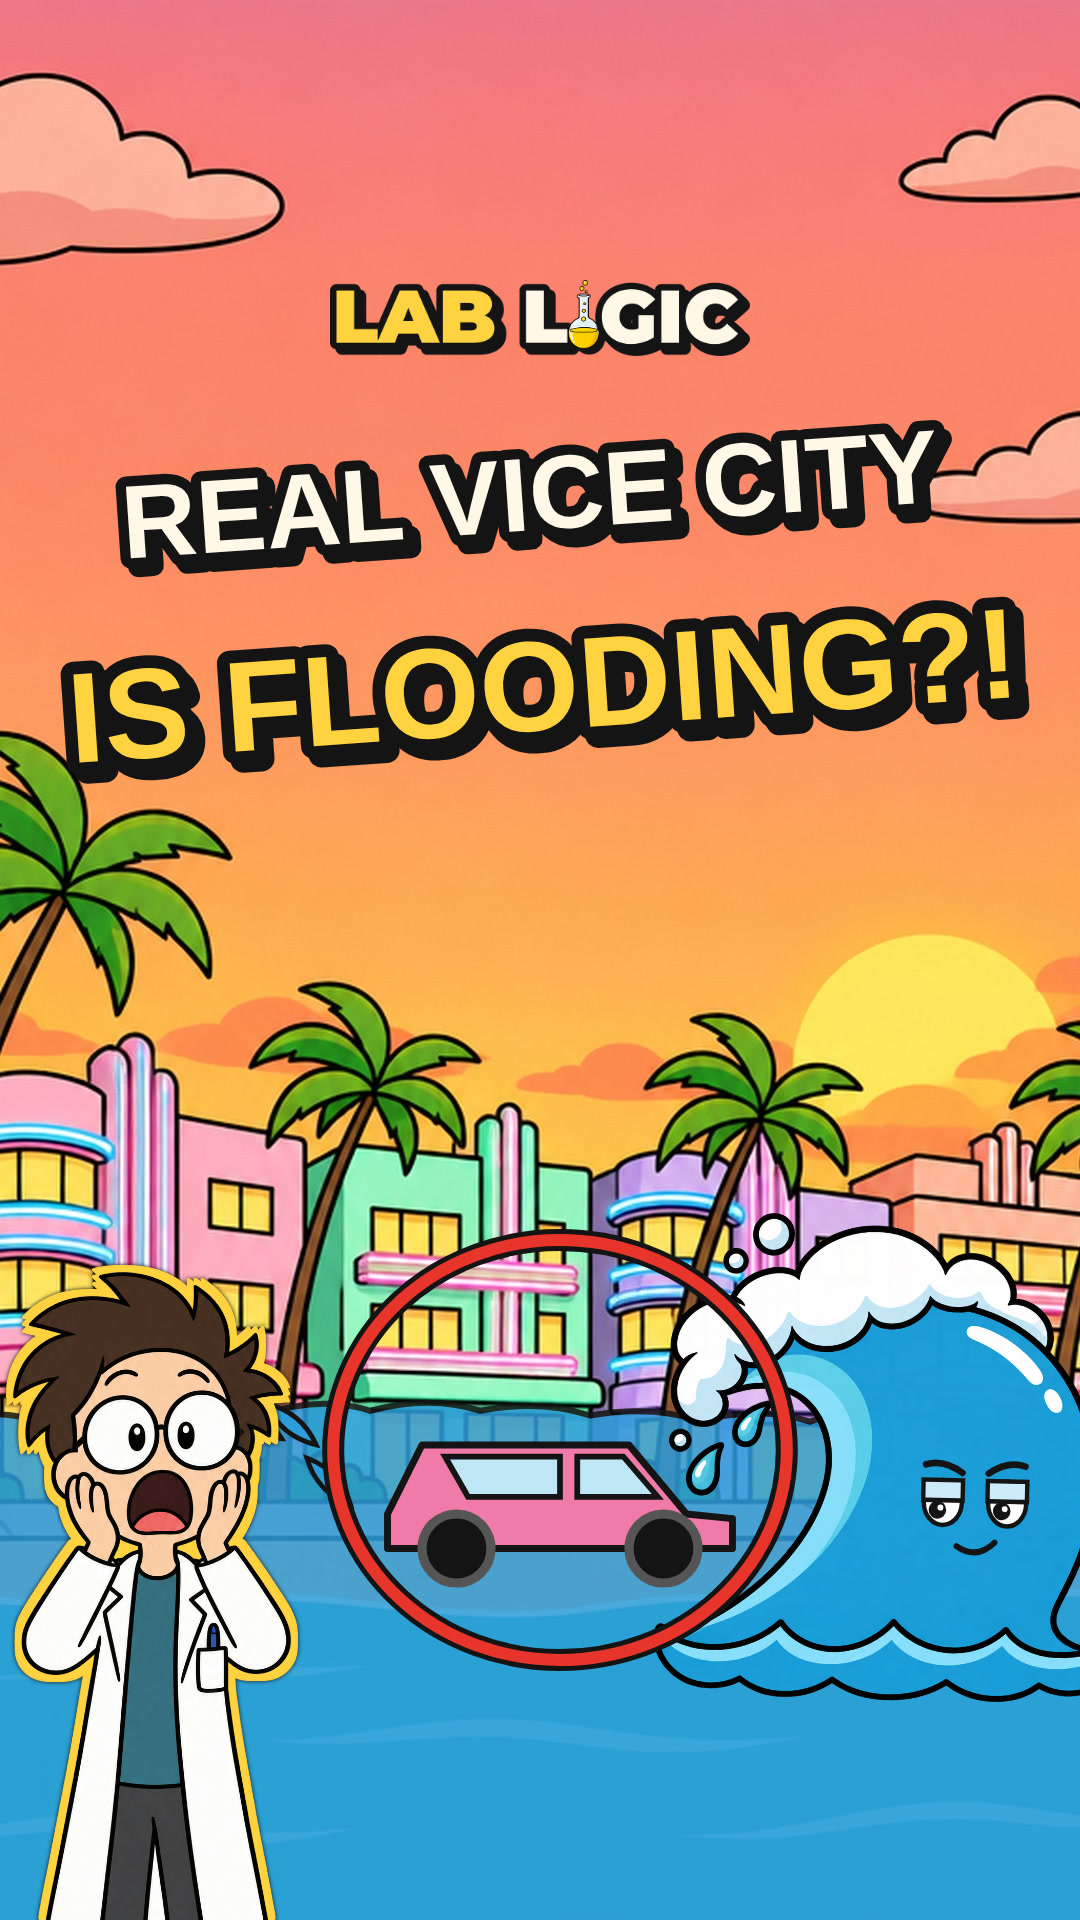
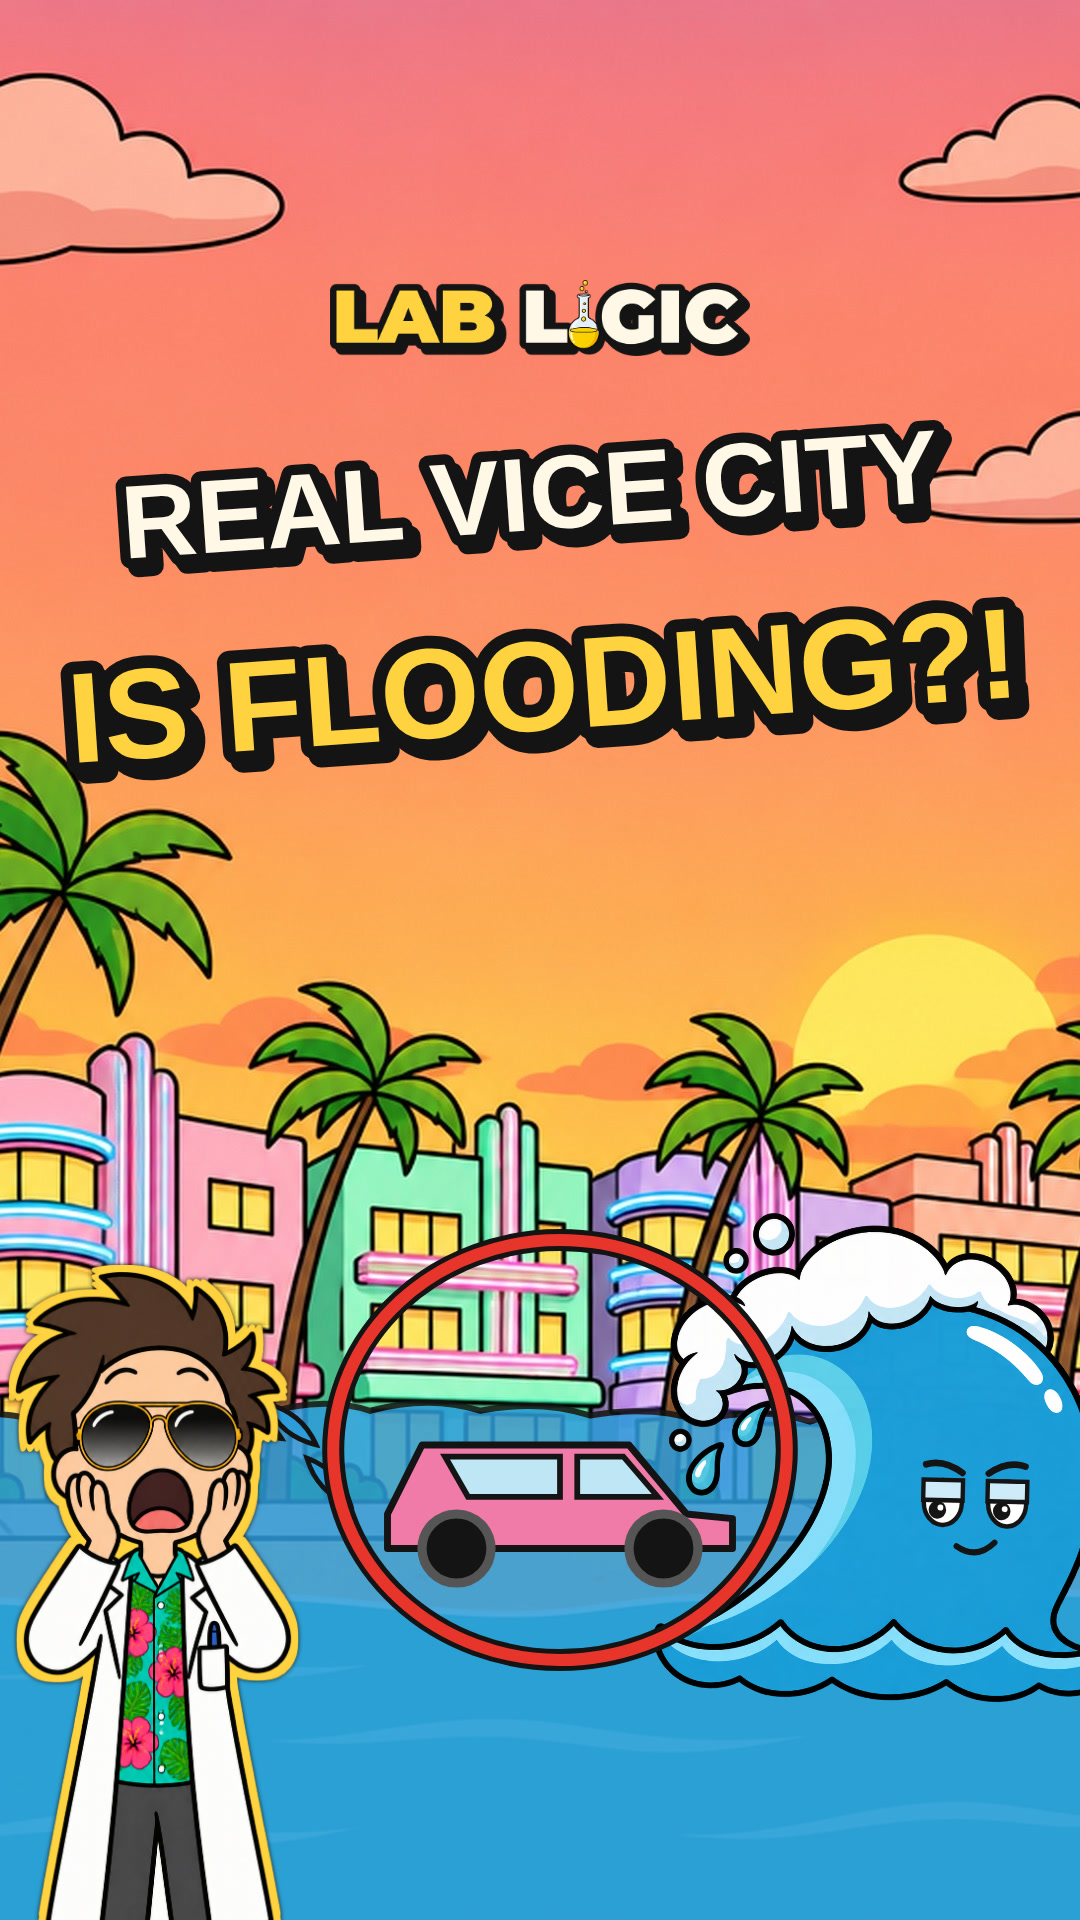
Vice City Short: scientist in Hawaiian shirt + aviators (new sprite skin system)
Claude-Session: https://claude.ai/code/session_015xk9XDSoC2XGKGSmzAa8PH

Changed region(s): [[0.0, 0.6562, 0.275, 1.0], [0.0306, 0.9375, 0.0611, 1.0], [0.0, 0.8438, 0.0306, 0.875]]

diff --git a/video/src/iceberg/Sci.tsx b/video/src/iceberg/Sci.tsx
@@ -1,6 +1,12 @@
 import React from 'react';
 import {Img, staticFile} from 'remotion';
 import {SPRITES} from './sprites';
+import {SPRITES_HAWAII} from './sprites_hawaii';
+
+// Outfit variants: same poses, different sprite folder + measurements (e.g. 'hawaii' = Hawaiian shirt + aviators).
+export type Skin = 'default' | 'hawaii';
+export const skinSprite = (pose: string, skin: Skin = 'default') =>
+  skin === 'hawaii' && SPRITES_HAWAII[pose] ? {sp: SPRITES_HAWAII[pose], src: `sci_hawaii/${pose}.png`} : {sp: SPRITES[pose], src: `iceberg/sci/${pose}.png`};
 import {clamp} from './anim';
 
 export type Pose = 'rope' | 'point' | 'think' | 'thumbs' | 'shocked' | 'nervous' | 'bucket' | 'facepalm' | 'throw' | 'present' | 'calc' | 'hot' | 'dizzy' | 'glass' | 'thirsty' | 'cash';
@@ -17,7 +23,8 @@ export const Sci: React.FC<{
   tremble?: number;
   hop?: number; // extra vertical offset (jumps)
   rot?: number;
-}> = ({t, x, y, headR = 44, poses, flip = false, tremble = 0, hop = 0, rot = 0}) => {
+  skin?: Skin;
+}> = ({t, x, y, headR = 44, poses, flip = false, tremble = 0, hop = 0, rot = 0, skin = 'default'}) => {
   let pose = poses[0][1];
   let swapT = -99;
   for (const [ts, p] of poses) {
@@ -51,7 +58,7 @@ export const Sci: React.FC<{
   }
   // breathing on holds
   sy *= 1 + 0.009 * Math.sin(t * 2 * Math.PI * 0.6);
-  const sp = SPRITES[pose];
+  const {sp, src} = skinSprite(pose, skin);
   const k = headR / sp.headR;
   const tx = tremble * (Math.sin(t * 71) * 1.5 + Math.sin(t * 43) * 1);
   return (
@@ -81,7 +88,7 @@ export const Sci: React.FC<{
         }}
       />
       <Img
-        src={staticFile(`iceberg/sci/${pose}.png`)}
+        src={staticFile(src)}
         style={{position: 'absolute', left: -sp.footX * k, top: -sp.footY * k, width: sp.w * k, height: sp.h * k}}
       />
     </div>

diff --git a/video/src/vicecity/Main.tsx b/video/src/vicecity/Main.tsx
@@ -239,7 +239,7 @@ export const ViceCover: React.FC = () => (
       <Wave x={900} y={1700} s={1.2} t={0.4} mood="smug" look={{x: -0.8, y: 0.2}} />
       <RedCircle x={560} y={1450} r={210} />
     </svg>
-    <BigSci pose="shocked" x={150} y={1420} headR={105} />
+    <BigSci skin="hawaii" pose="shocked" x={150} y={1420} headR={105} />
     <svg width={W} height={H} viewBox={`0 0 ${W} ${H}`} style={{position: 'absolute'}}>
       <g transform="rotate(-4 540 640)" data-skip="cover headline">
         <BigText x={540} y={530} text="REAL VICE CITY" size={104} />
@@ -308,7 +308,7 @@ const FixScene: React.FC<{t: number}> = ({t}) => {
         <Pill x={540} y={300} text="THE NETHERLANDS: WALLS" s={span(t, t0 + 0.1, buildT)} bg="#FF9F1C" size={50} />
         <Pill x={540} y={300} text="BUILD ONE AROUND MIAMI" s={pop(t, buildT)} bg={C.green} size={50} />
       </Layer>
-      {!nl && <Sci t={t} x={170} y={1330} headR={40} poses={[[0, 'present'], [goneT, 'thumbs'], [rightT, 'think']]} />}
+      {!nl && <Sci skin="hawaii" t={t} x={170} y={1330} headR={40} poses={[[0, 'present'], [goneT, 'thumbs'], [rightT, 'think']]} />}
     </Stage>
   );
 };
@@ -497,7 +497,7 @@ const FinalScene: React.FC<{t: number}> = ({t}) => {
         <Pill x={540} y={300} text="IN THE GAME: JUST DRIVE" s={span(t, t0 + 0.1, realT)} bg={C.paper} size={50} />
         <Pill x={540} y={300} text="IN REAL LIFE..." s={pop(t, realT)} bg={C.yellow} size={56} />
       </Layer>
-      {t > realT && <Sci t={t} x={170} y={1330} headR={42} poses={[[0, 'point']]} />}
+      {t > realT && <Sci skin="hawaii" t={t} x={170} y={1330} headR={42} poses={[[0, 'point']]} />}
     </Stage>
   );
 };

diff --git a/video/src/thumb/SunThumbs.tsx b/video/src/thumb/SunThumbs.tsx
@@ -1,6 +1,7 @@
 import React, {useEffect, useState} from 'react';
 import {AbsoluteFill, Img, continueRender, delayRender, staticFile} from 'remotion';
 import {BigText, C} from '../iceberg/art';
+import {Skin, skinSprite} from '../iceberg/Sci';
 import {SPRITES} from '../iceberg/sprites';
 import {Arrow, Rocket, SPACE, SPACE_L, Sun, TrashBag} from '../sun/space';
 
@@ -32,8 +33,8 @@ export const Rays: React.FC<{cx: number; cy: number}> = ({cx, cy}) => (
 );
 
 // The scientist, big and close (feet far below the frame), with a thick yellow rim like a sticker.
-export const BigSci: React.FC<{pose: string; x: number; y: number; headR: number; flip?: boolean}> = ({pose, x, y, headR, flip}) => {
-  const sp = SPRITES[pose];
+export const BigSci: React.FC<{pose: string; x: number; y: number; headR: number; flip?: boolean; skin?: Skin}> = ({pose, x, y, headR, flip, skin = 'default'}) => {
+  const {sp, src} = skinSprite(pose, skin);
   const k = headR / sp.headR;
   const w = sp.w * k;
   const h = sp.h * k;
@@ -44,7 +45,7 @@ export const BigSci: React.FC<{pose: string; x: number; y: number; headR: number
   const o = 7;
   const y1 = '#FFD23F';
   const filter = [`${o}px 0`, `-${o}px 0`, `0 ${o}px`, `0 -${o}px`].map((d) => `drop-shadow(${d} 0 ${y1})`).join(' ') + ' drop-shadow(0 0 2px #141414)';
-  return <Img src={staticFile(`iceberg/sci/${pose}.png`)} style={{...style, filter}} />;
+  return <Img src={staticFile(src)} style={{...style, filter}} />;
 };
 
 export const RedCircle: React.FC<{x: number; y: number; r: number}> = ({x, y, r}) => (

diff --git a/video/src/iceberg/sprites_hawaii.ts b/video/src/iceberg/sprites_hawaii.ts
@@ -1,0 +1,58 @@
+import type {Sprite} from './sprites';
+export const SPRITES_HAWAII: Record<string, Sprite> = {
+  "present": {
+    "handX": 860,
+    "handY": 629,
+    "w": 871,
+    "h": 1600,
+    "headX": 255,
+    "headY": 271,
+    "headR": 191.8914794921875,
+    "footX": 331.5,
+    "footY": 1588.0
+  },
+  "thumbs": {
+    "handX": 584,
+    "handY": 1104,
+    "w": 595,
+    "h": 1600,
+    "headX": 295,
+    "headY": 295,
+    "headR": 216.84768676757812,
+    "footX": 315.5,
+    "footY": 1588.0
+  },
+  "think": {
+    "handX": 559,
+    "handY": 1550,
+    "w": 570,
+    "h": 1600,
+    "headX": 266,
+    "headY": 288,
+    "headR": 207.40467834472656,
+    "footX": 308.2,
+    "footY": 1588.0
+  },
+  "point": {
+    "handX": 611,
+    "handY": 565,
+    "w": 622,
+    "h": 1600,
+    "headX": 279,
+    "headY": 285,
+    "headR": 214.49925231933594,
+    "footX": 293.7,
+    "footY": 1588.0
+  },
+  "shocked": {
+    "handX": 566,
+    "handY": 745,
+    "w": 577,
+    "h": 1600,
+    "headX": 281,
+    "headY": 310,
+    "headR": 212.145751953125,
+    "footX": 300.9,
+    "footY": 1588.0
+  }
+};

diff --git a/video/images/vicecity/scripts/prep_hawaii.py b/video/images/vicecity/scripts/prep_hawaii.py
@@ -1,0 +1,38 @@
+# Trim sprites, measure head disc + feet, write src/iceberg/sprites.ts.
+# usage: python3 prep.py pose=raw/file.png [pose=raw/file.png ...]
+import sys, json, numpy as np, cv2
+from PIL import Image
+ROOT = '/home/user/LAbLogic/video/'
+out = {}
+for arg in sys.argv[1:]:
+    name, path = arg.split('=')
+    im = Image.open(path).convert('RGBA')
+    a = np.array(im)[..., 3]
+    ys, xs = np.where(a > 20)
+    x0, x1, y0, y1 = max(xs.min() - 12, 0), min(xs.max() + 13, a.shape[1]), max(ys.min() - 12, 0), min(ys.max() + 13, a.shape[0])
+    im = im.crop((x0, y0, x1, y1))
+    if im.height > 1600:  # big enough for the 4K render, much lighter to load
+        im = im.resize((round(im.width * 1600 / im.height), 1600), Image.LANCZOS)
+    a = np.array(im)[..., 3]
+    h, w = a.shape
+    a8 = (a > 128).astype(np.uint8)
+    ff = a8.copy()
+    cv2.floodFill(ff, np.zeros((h + 2, w + 2), np.uint8), (0, 0), 2)
+    solid = np.where(ff == 2, 0, 1).astype(np.uint8)
+    # head = largest inscribed disc in the top 45 % (the coat is wide too)
+    top = solid.copy(); top[int(h * 0.45):] = 0
+    dt = cv2.distanceTransform(top, cv2.DIST_L2, 5)
+    hy, hx = np.unravel_index(dt.argmax(), dt.shape)
+    band = a8[int(h * 0.965):]
+    fy, fx = np.where(band > 0)
+    foot = (float(fx.mean()) if len(fx) else w / 2, float(h - 12))
+    im.save(ROOT + f'public/sci_hawaii/{name}.png')
+    # rightmost opaque point (end of the rope / held object)
+    ys2, xs2 = np.where(a > 128)
+    i = xs2.argmax()
+    out_hand = (int(xs2[i]), int(ys2[i]))
+    out[name] = {'handX': out_hand[0], 'handY': out_hand[1], 'w': w, 'h': h, 'headX': int(hx), 'headY': int(hy), 'headR': float(dt[hy, hx]), 'footX': round(foot[0], 1), 'footY': round(foot[1], 1)}
+    print(name, out[name])
+ts = "import type {Sprite} from './sprites';\n"
+ts += 'export const SPRITES_HAWAII: Record<string, Sprite> = ' + json.dumps(out, indent=2) + ';\n'
+open(ROOT + 'src/iceberg/sprites_hawaii.ts', 'w').write(ts)

diff --git a/.claude/skills/lab-logic/references/higgsfield.md b/.claude/skills/lab-logic/references/higgsfield.md
@@ -84,3 +84,14 @@ Non-character cut-outs: trim + resize by hand and measure anchor points (e.g. be
   (1k medium, 0.5 each), sprites `video/public/zebra/{happy,worried}.png` (800x510, same crop, feet y 503). Expression
   swaps = cheap edit of the same image ("keep EXACTLY identical, change ONLY the face"). Code-drawn animals look bad -
   the user wants animals from Higgsfield.
+
+## Scientist outfit variants ("skins", added 2026-11-19)
+- `Sci` and `BigSci` take `skin="hawaii"` (Hawaiian shirt + gold aviator sunglasses, used in the Vice City Short).
+  Sprites `video/public/sci_hawaii/<pose>.png`, metrics `video/src/iceberg/sprites_hawaii.ts`, made with
+  `video/images/vicecity/scripts/prep_hawaii.py` (a copy of prep.py that writes to its own folder - never run the
+  original prep.py for a skin, it overwrites `public/iceberg/sci/` and `sprites.ts`).
+- Poses so far: present, thumbs, think, point, shocked (2k medium edits, 1.0 credit each). Jobs: present
+  `e98d65d6-…`, thumbs `9a4fdb28-…`, think `49d9ef11-…`, point `e665280d-…`, shocked `1b625bab-…`. A pose without a
+  skin sprite falls back to the default outfit.
+- Recipe: upload the default pose PNG (media_upload + PUT with `If-None-Match: *` + media_confirm), then an edit
+  prompt "keep the scientist EXACTLY identical … change ONLY …". New skins: same pattern, new folder + metrics file.

diff --git a/.claude/skills/lab-logic/references/episodes.md b/.claude/skills/lab-logic/references/episodes.md
@@ -252,4 +252,5 @@ long-forms from new Shorts (Shorts "Related video" link + pinned comment).
 - Facts (search snippets): porous limestone, water under seawalls, sunny-day flooding; Biscayne Aquifer saltwater
   intrusion (Miami-Dade); SE Florida Compact 2019: +10-17 in by 2040 vs 2000; Miami Beach ~$400M pumps/valves/raised
   roads (2014), streets raised up to 31 in.
-- Costs: 1,044 ElevenLabs credits (voice); Higgsfield 1.0; SFX 0 (all reused).
+- Scientist wears the "hawaii" skin (Hawaiian shirt + aviators), user request; cover uses it too.
+- Costs: 1,044 ElevenLabs credits (voice); Higgsfield 1.0 (wave + backdrop) + 5.0 (5 outfit poses) = 6.0; SFX 0.
